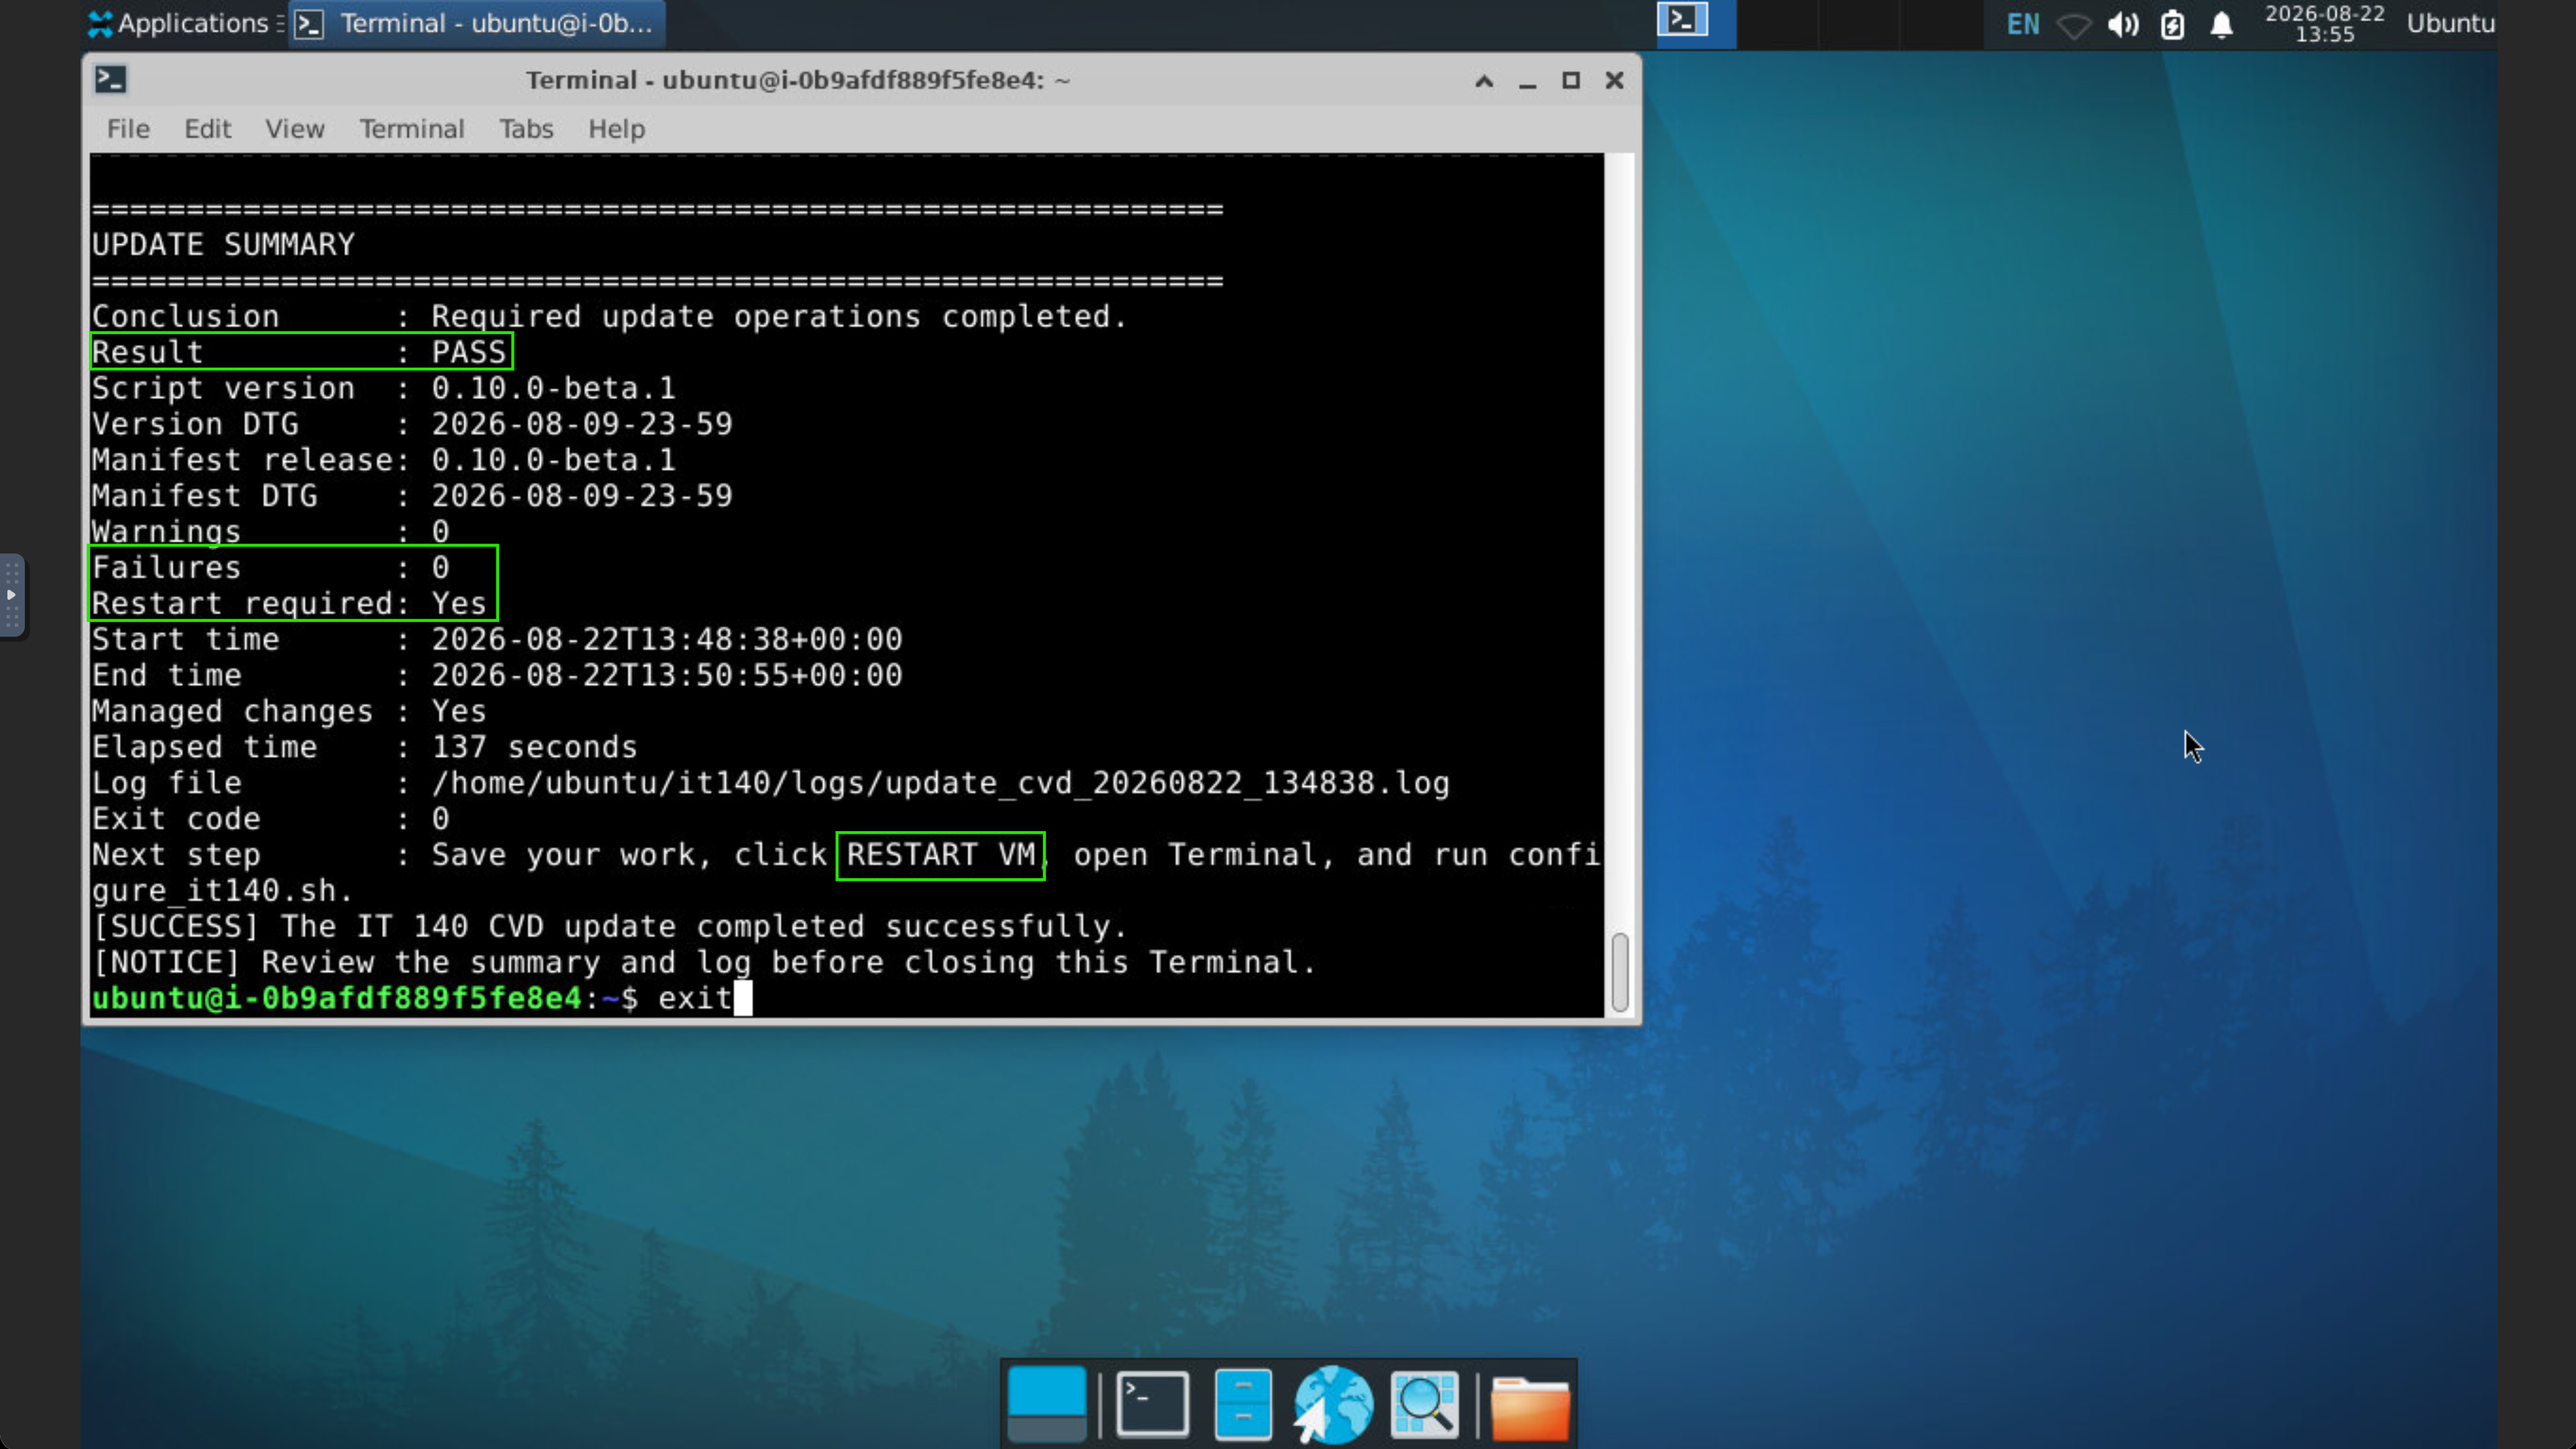
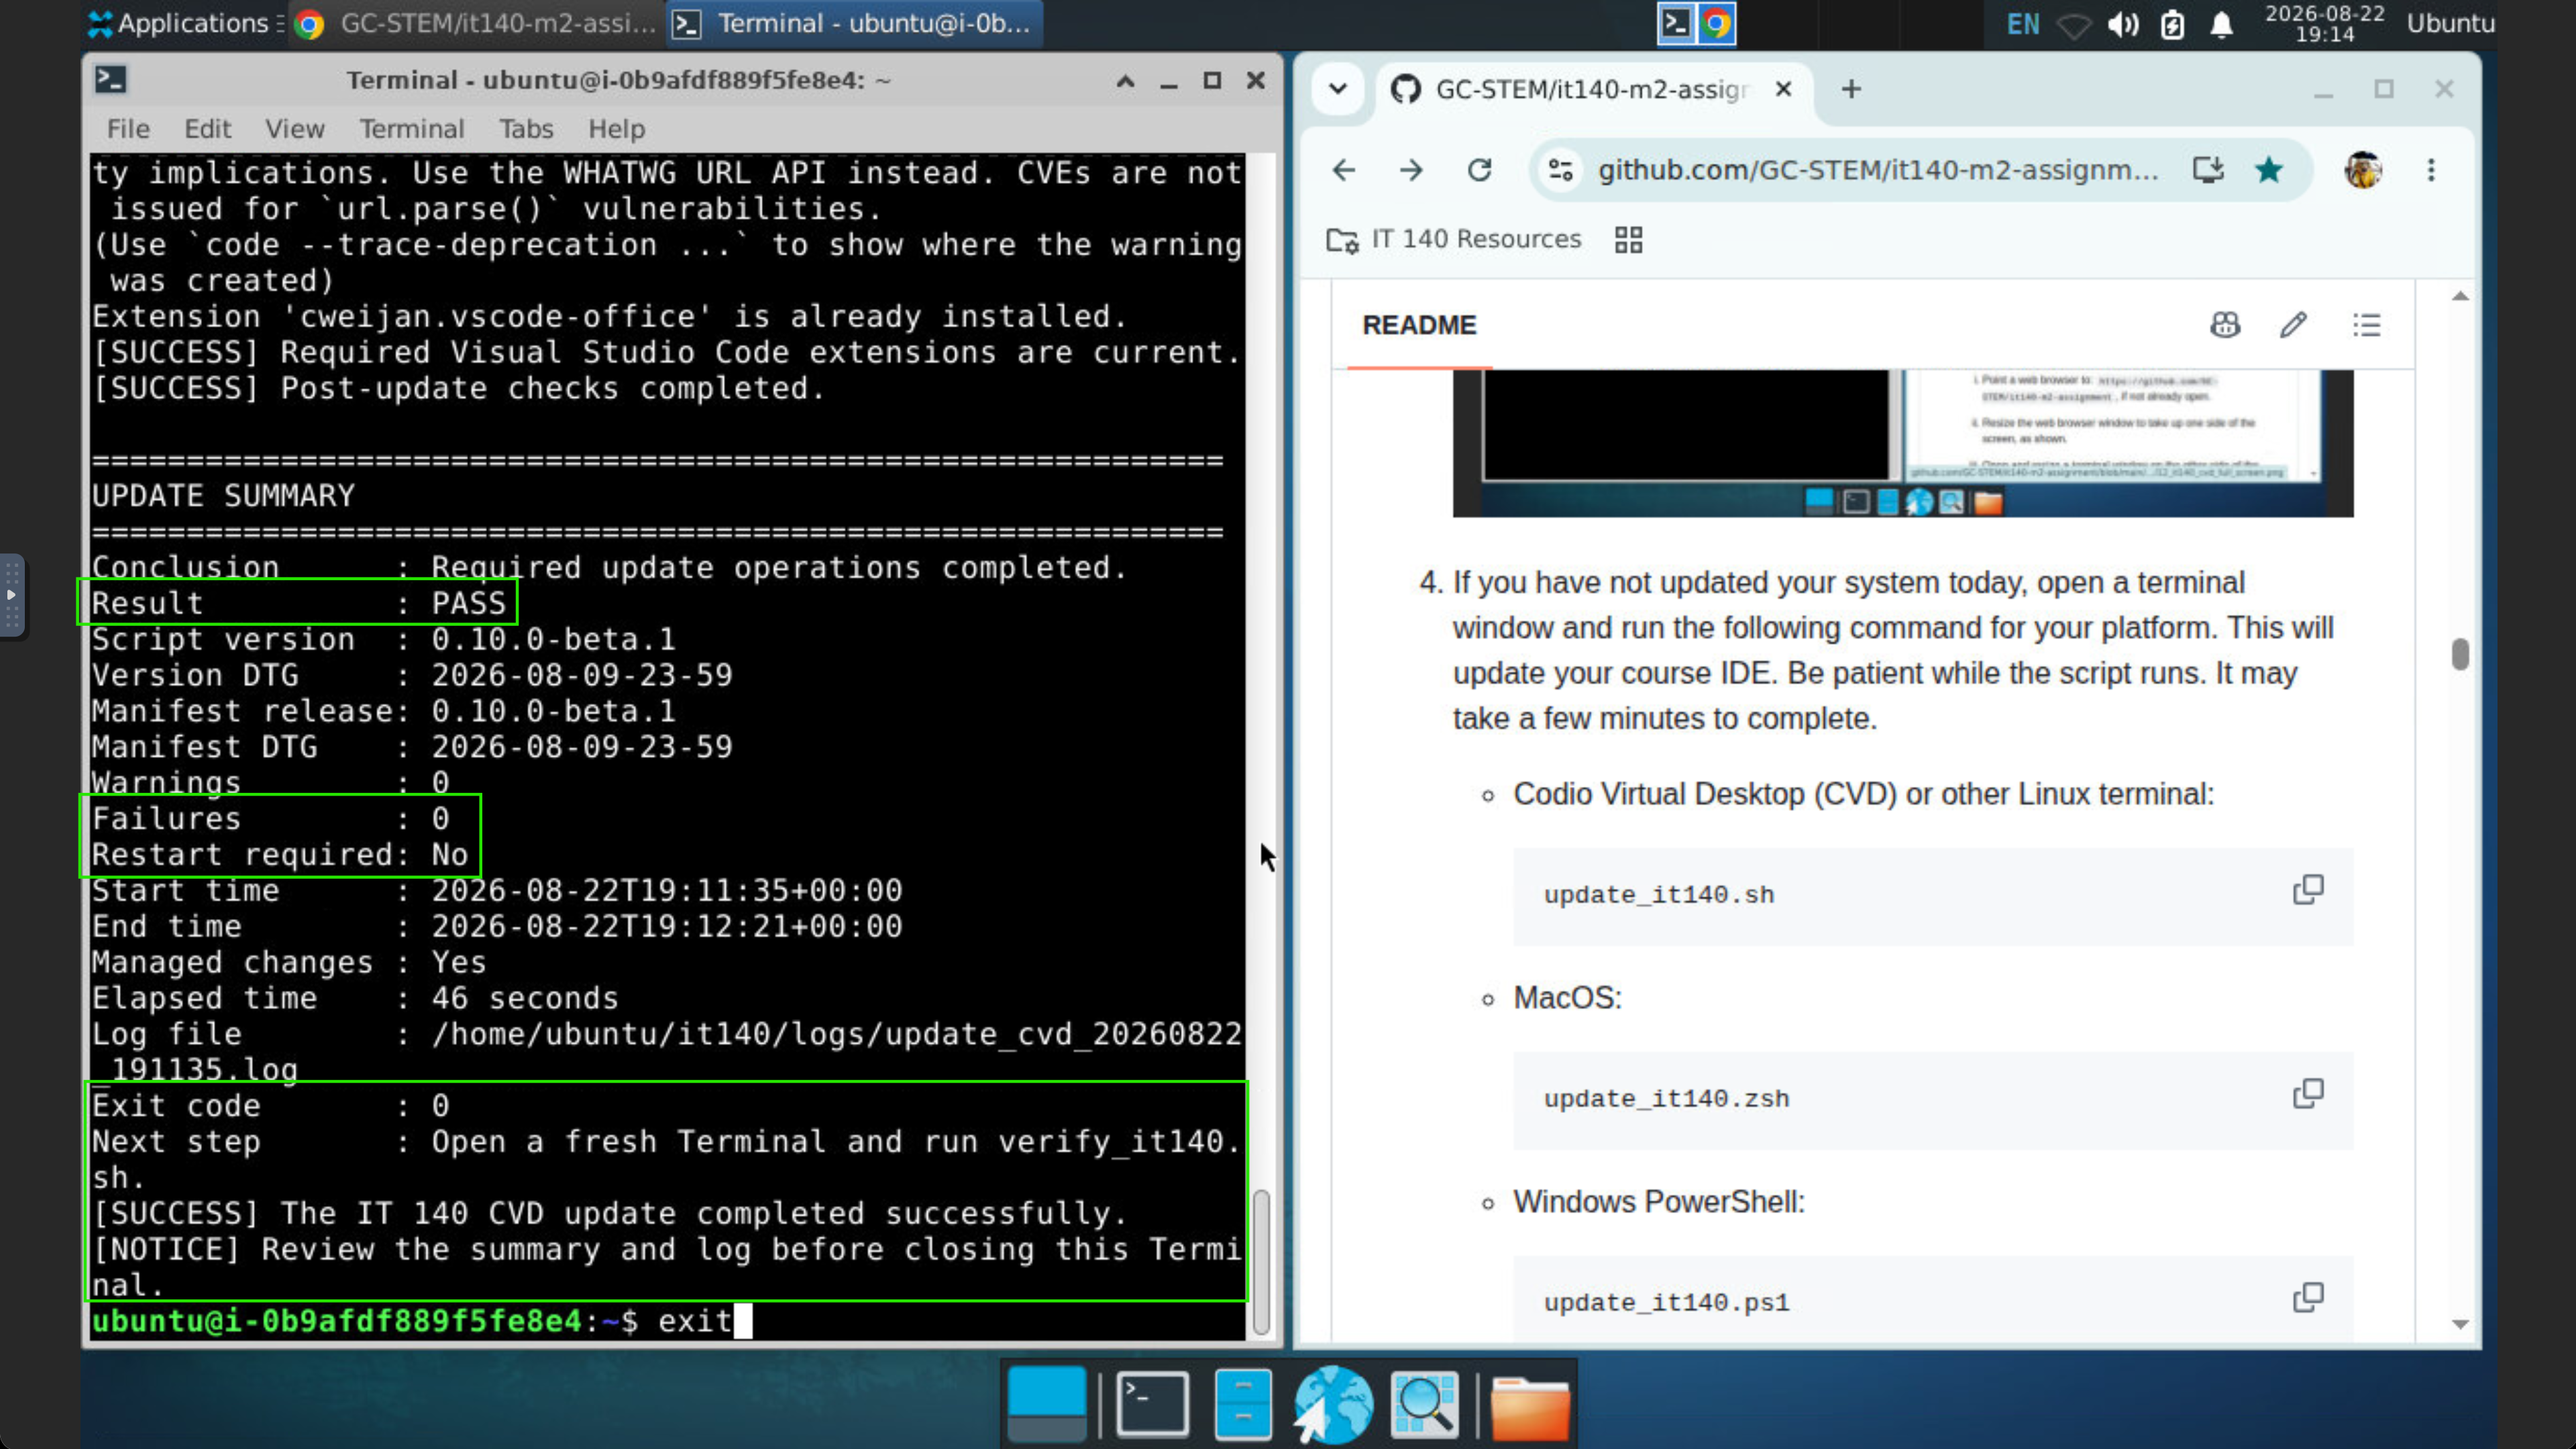
Update README to include tip for skipping to VS Code Integrated Terminal

diff --git a/README.md b/README.md
@@ -123,6 +123,8 @@ If you have not completed all the [Module One Setup Tasks](https://github.com/GC
 
    ![Optional Codio Virtual Desktop page in D2L Brightspace](.github/assets/11_it140_ocvd_page.png)
 
+   > [!TIP] If you have updated your course IDE today, you can skip to [2. Open the VS Code Integrated Terminal](#2-open-the-vs-code-integrated-terminal).
+
 2. If you are on the Codio Virtual Desktop (CVD), expand the window to full screen.
 
    ![Codio Virtual Desktop (CVD) in full screen](.github/assets/12_it140_cvd_full_screen.png)
